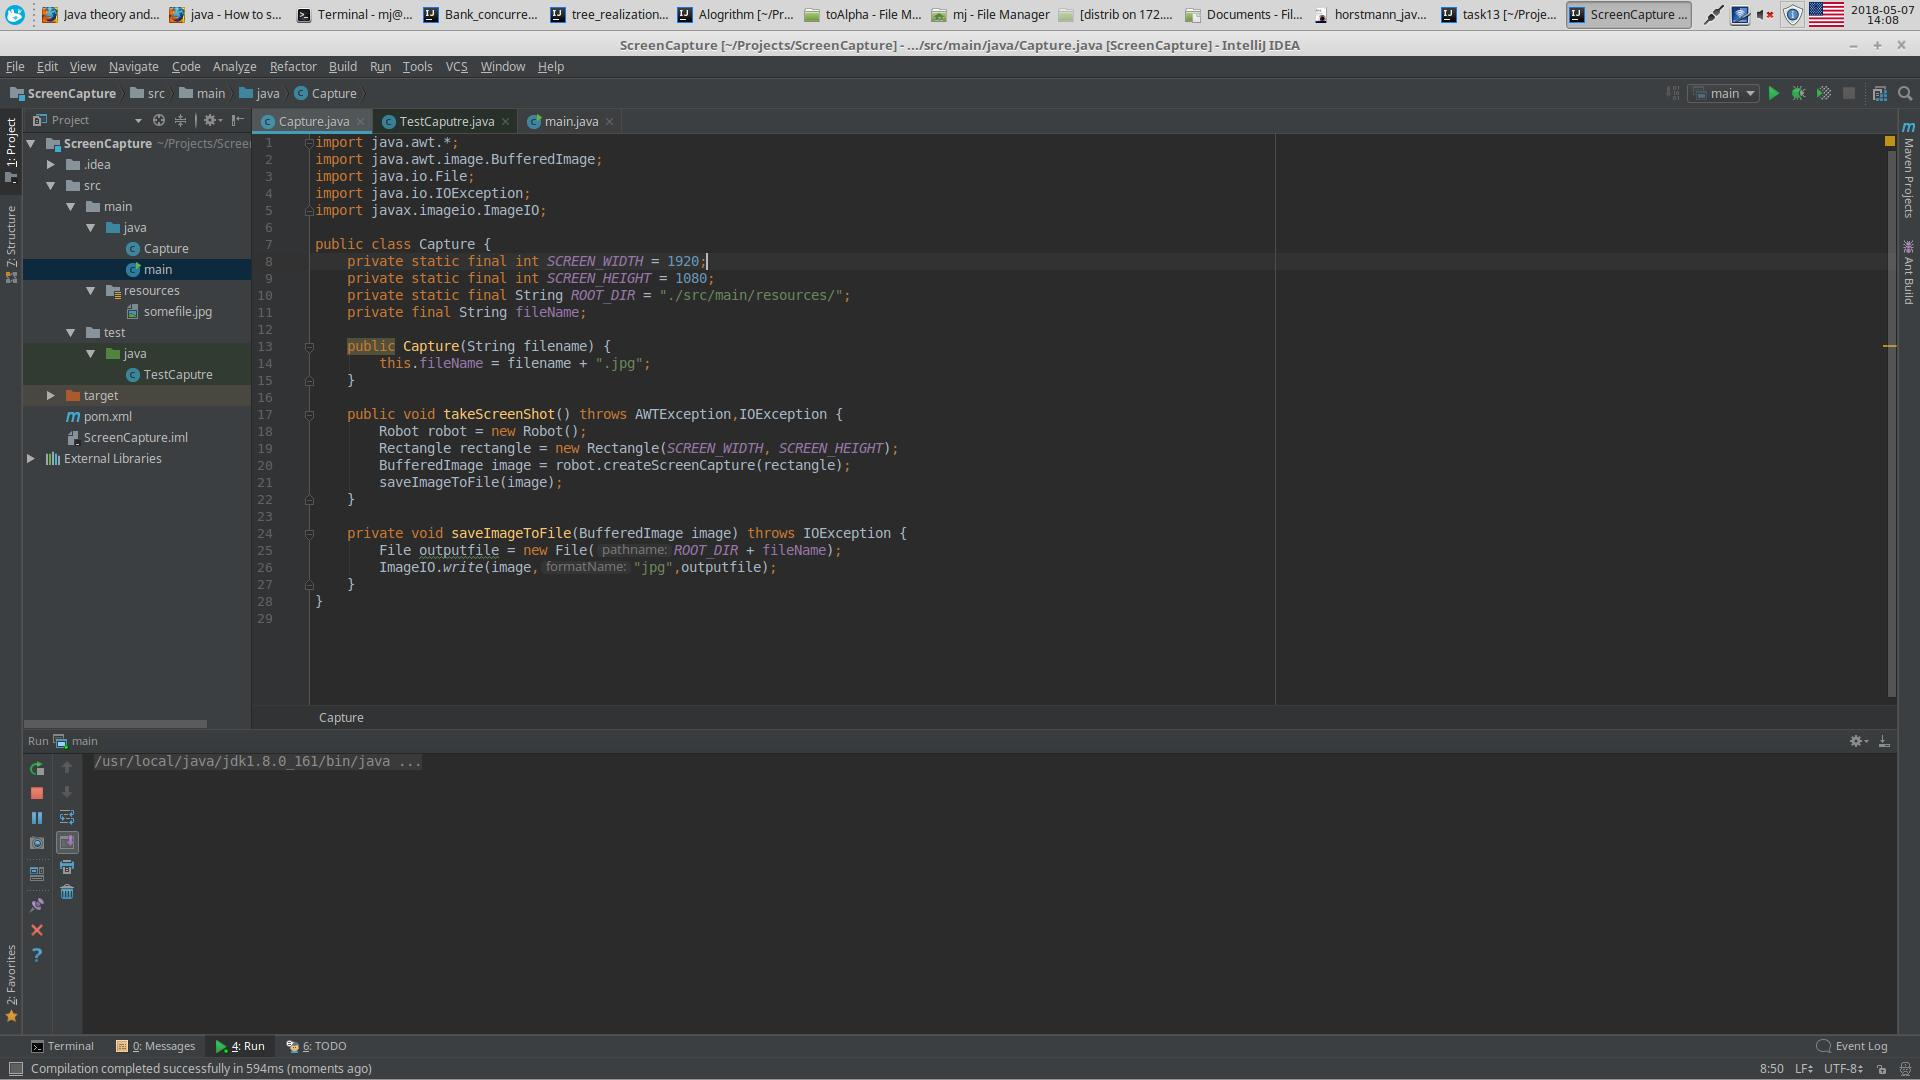
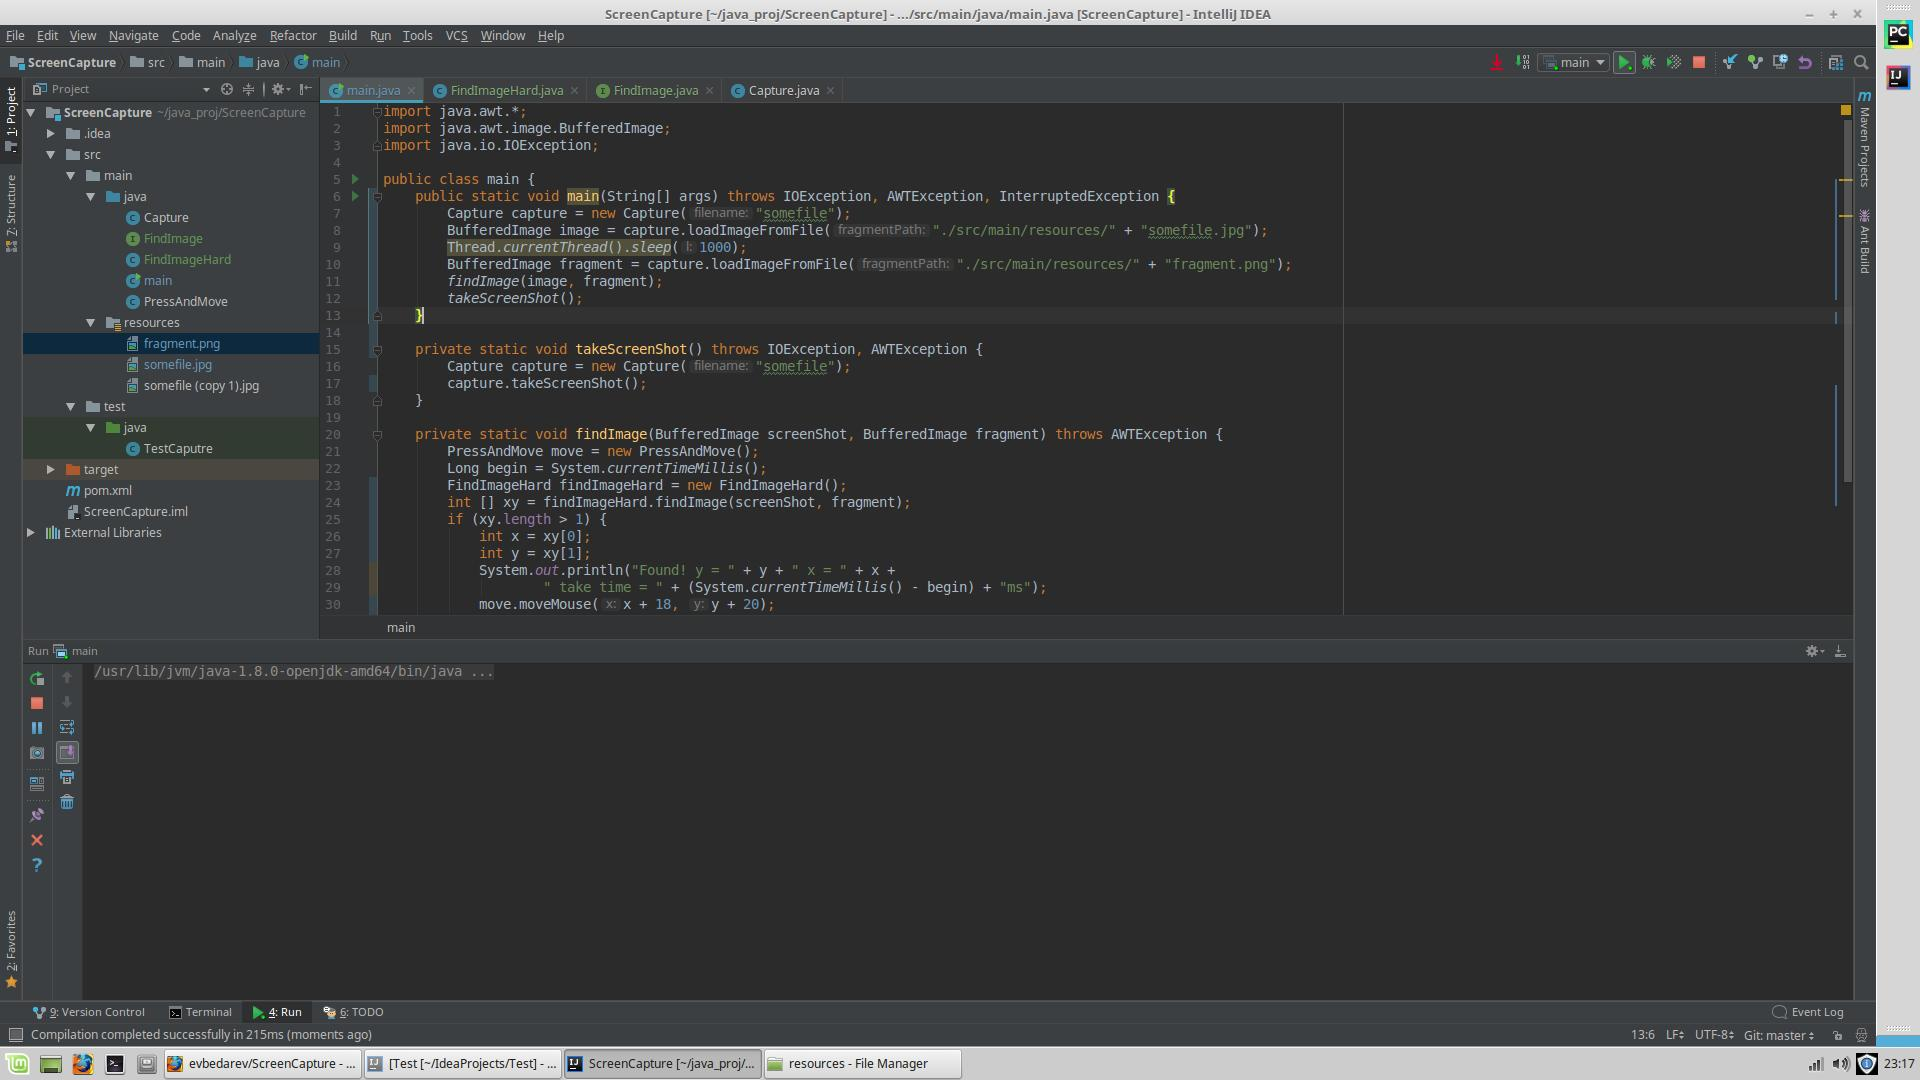
+ interface

Changed region(s): [[0.0, 0.0, 1.0, 1.0], [0.0, 0.6111, 0.25, 0.825]]

diff --git a/src/main/java/main.java b/src/main/java/main.java
@@ -3,33 +3,33 @@ import java.awt.image.BufferedImage;
 import java.io.IOException;
 
 public class main {
-    public static void main(String[] args) throws IOException, AWTException {
+    public static void main(String[] args) throws IOException, AWTException, InterruptedException {
         Capture capture = new Capture("somefile");
         BufferedImage image = capture.loadImageFromFile("./src/main/resources/" + "somefile.jpg");
+        Thread.currentThread().sleep(1000);
         BufferedImage fragment = capture.loadImageFromFile("./src/main/resources/" + "fragment.png");
-//        capture.saveImageToFile(image, "./src/main/resources/" + "somefile2.jpg");
         findImage(image, fragment);
+        takeScreenShot();
+    }
 
-//        capture.takeScreenShot();
+    private static void takeScreenShot() throws IOException, AWTException {
+        Capture capture = new Capture("somefile");
+        capture.takeScreenShot();
     }
 
     private static void findImage(BufferedImage screenShot, BufferedImage fragment) throws AWTException {
         PressAndMove move = new PressAndMove();
         Long begin = System.currentTimeMillis();
-        for (int y = 0; y < screenShot.getHeight() - fragment.getHeight(); y++) {
-           __columnspan: for (int x=0; x < screenShot.getWidth() - fragment.getWidth(); x++) {
-                if (screenShot.getRGB(x, y) != fragment.getRGB(0,0))
-                    continue;
-                for (int yy = 0; yy < fragment.getHeight(); yy++) {
-                    for (int xx = 0; xx < fragment.getWidth(); xx++) {
-                        if (screenShot.getRGB(x + xx, y + yy) != fragment.getRGB(xx , yy))
-                            continue __columnspan;
-                    }
-                }
-               System.out.println("Found! y = " + y + " x = " + x +
-               " take time = " + (System.currentTimeMillis() - begin) + "ms");
-                move.moveMouse(x + 30,y + 20);
-            }
+        FindImageHard findImageHard = new FindImageHard();
+        int [] xy = findImageHard.findImage(screenShot, fragment);
+        if (xy.length > 1) {
+            int x = xy[0];
+            int y = xy[1];
+            System.out.println("Found! y = " + y + " x = " + x +
+                    " take time = " + (System.currentTimeMillis() - begin) + "ms");
+            move.moveMouse(x + 18, y + 20);
+        } else {
+            System.out.println("nothing found");
         }
     }
 }

diff --git a/src/main/java/FindImageHard.java b/src/main/java/FindImageHard.java
@@ -1,0 +1,22 @@
+import java.awt.image.BufferedImage;
+
+public class FindImageHard implements FindImage {
+
+    @Override
+    public int[] findImage(BufferedImage screenShot, BufferedImage fragment) {
+        for (int y = 0; y < screenShot.getHeight() - fragment.getHeight(); y++) {
+            __columnspan: for (int x=0; x < screenShot.getWidth() - fragment.getWidth(); x++) {
+                if (screenShot.getRGB(x, y) != fragment.getRGB(0,0))
+                    continue;
+                for (int yy = 0; yy < fragment.getHeight(); yy++) {
+                    for (int xx = 0; xx < fragment.getWidth(); xx++) {
+                        if (screenShot.getRGB(x + xx, y + yy) != fragment.getRGB(xx , yy))
+                            continue __columnspan;
+                    }
+                }
+                return new int[] {x,y};
+            }
+        }
+        return new int[0];
+    }
+}

diff --git a/src/main/java/FindImage.java b/src/main/java/FindImage.java
@@ -1,0 +1,5 @@
+import java.awt.image.BufferedImage;
+
+public interface FindImage {
+    int[] findImage (BufferedImage screenShot, BufferedImage fragment);
+}
